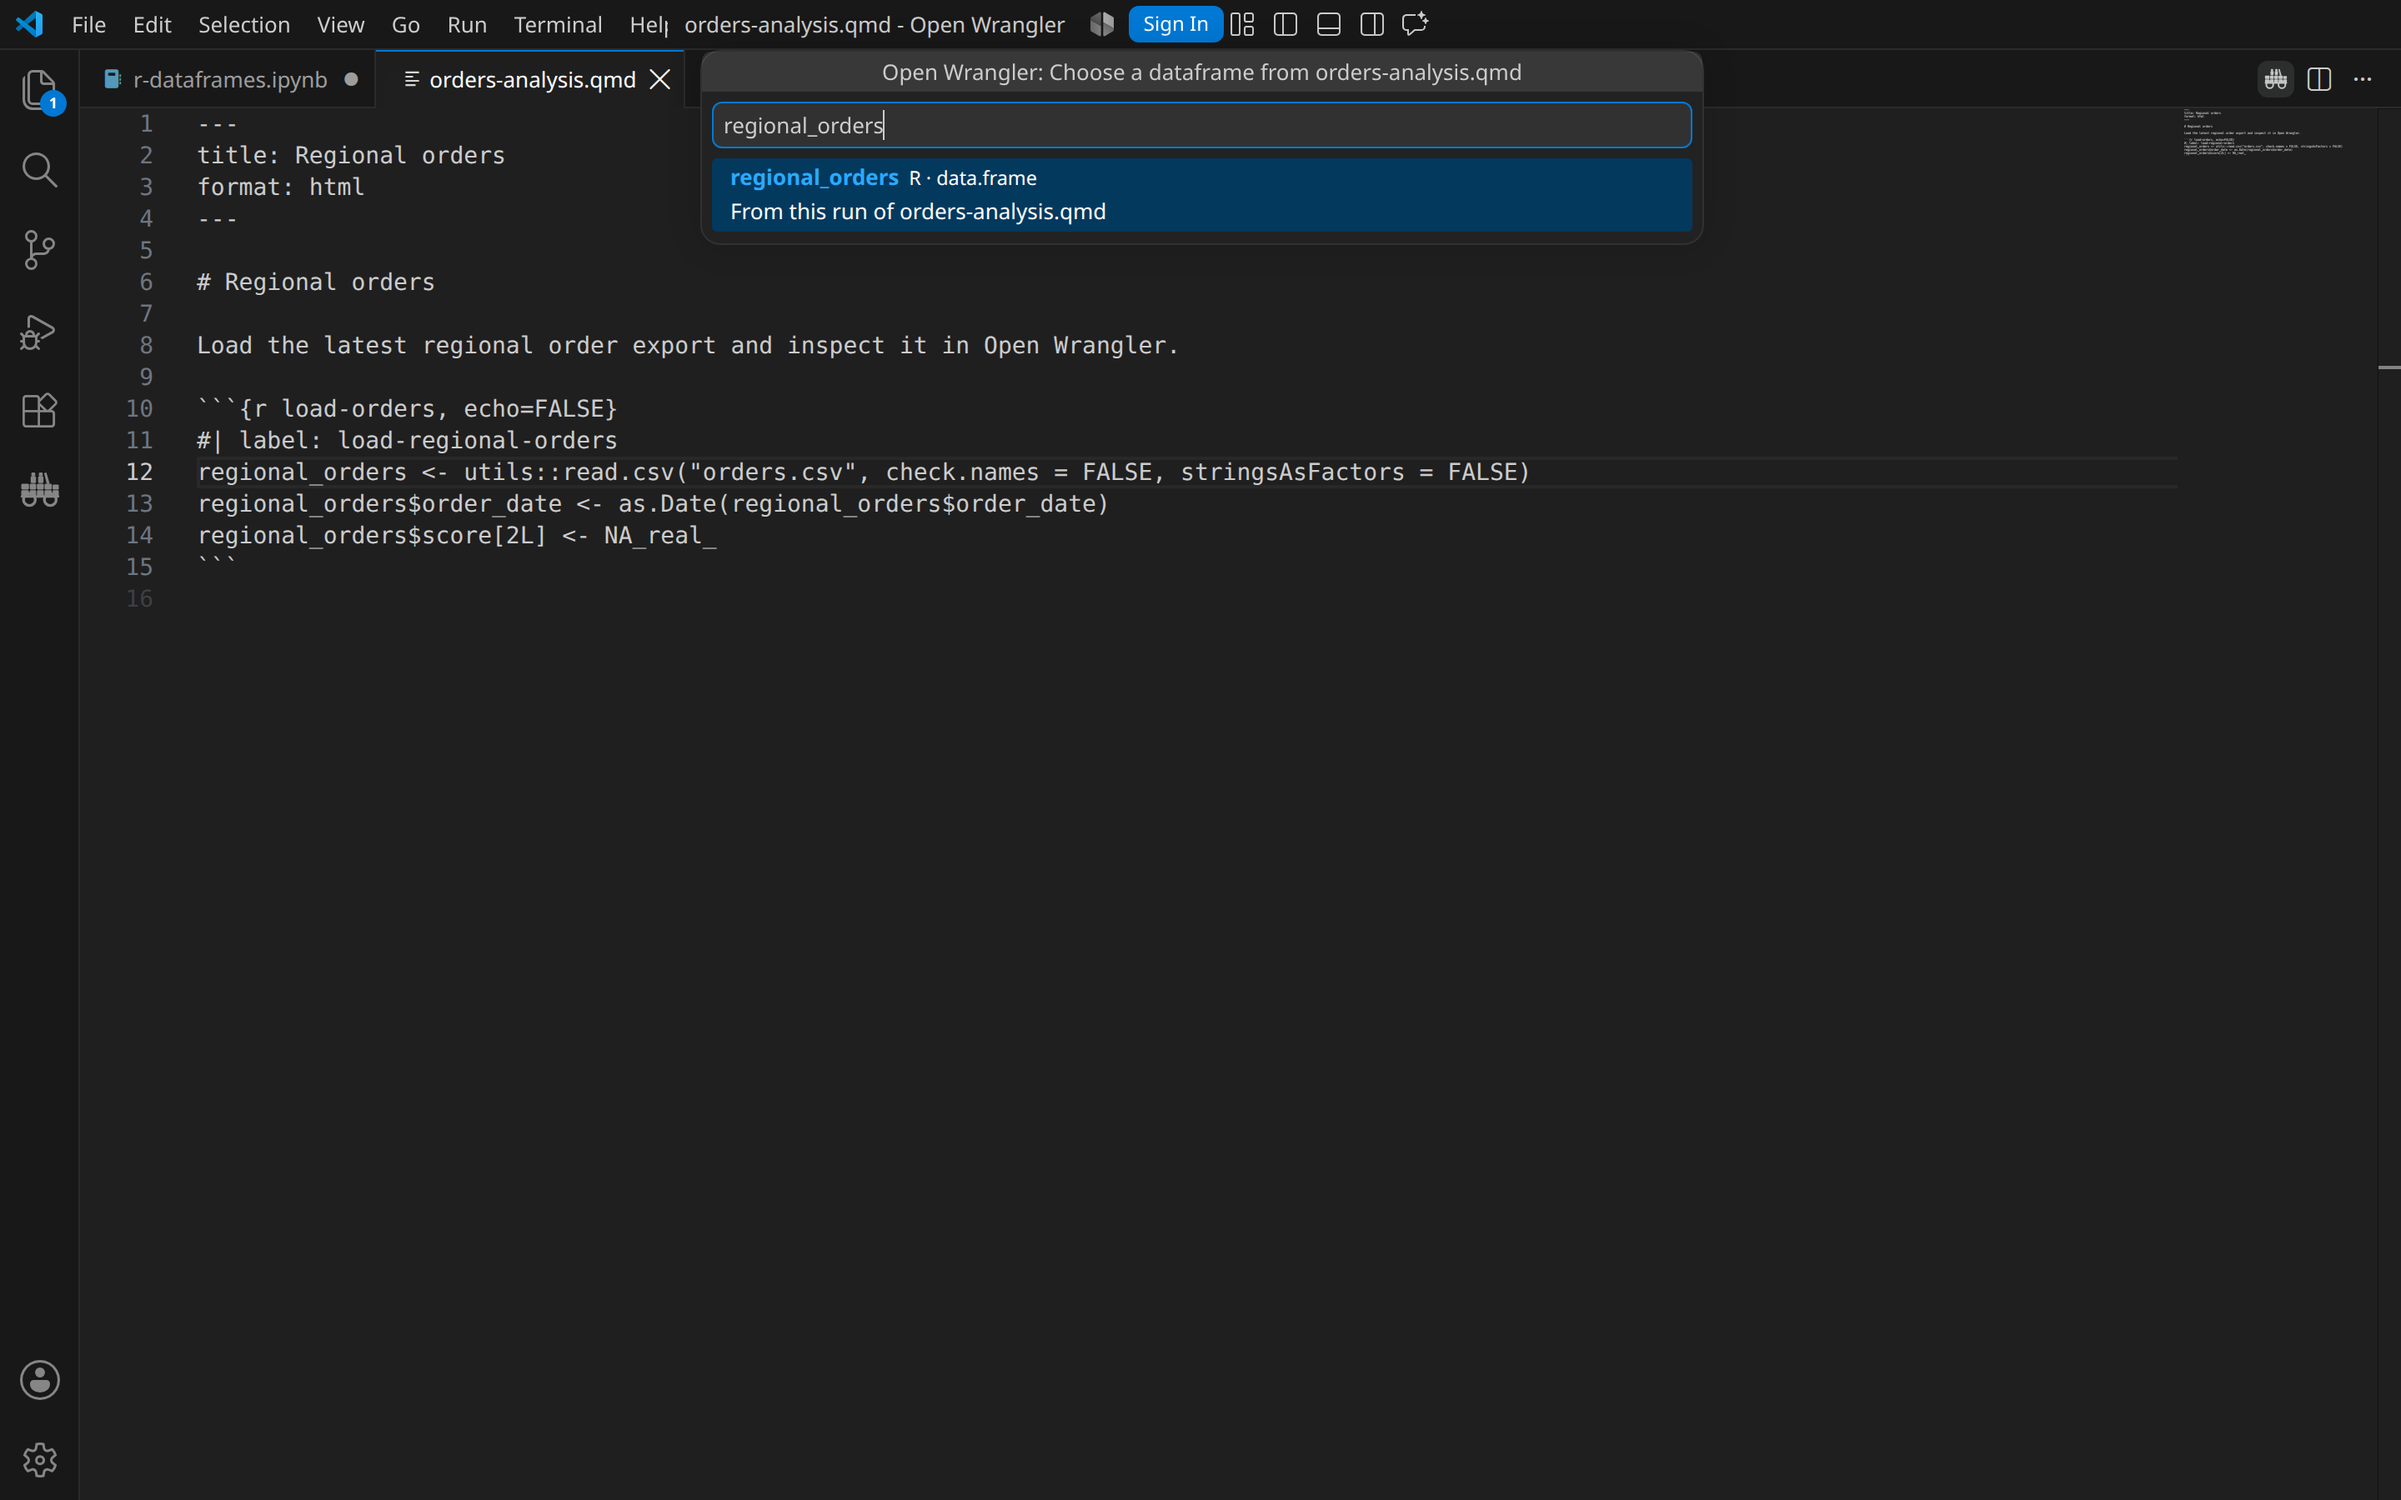
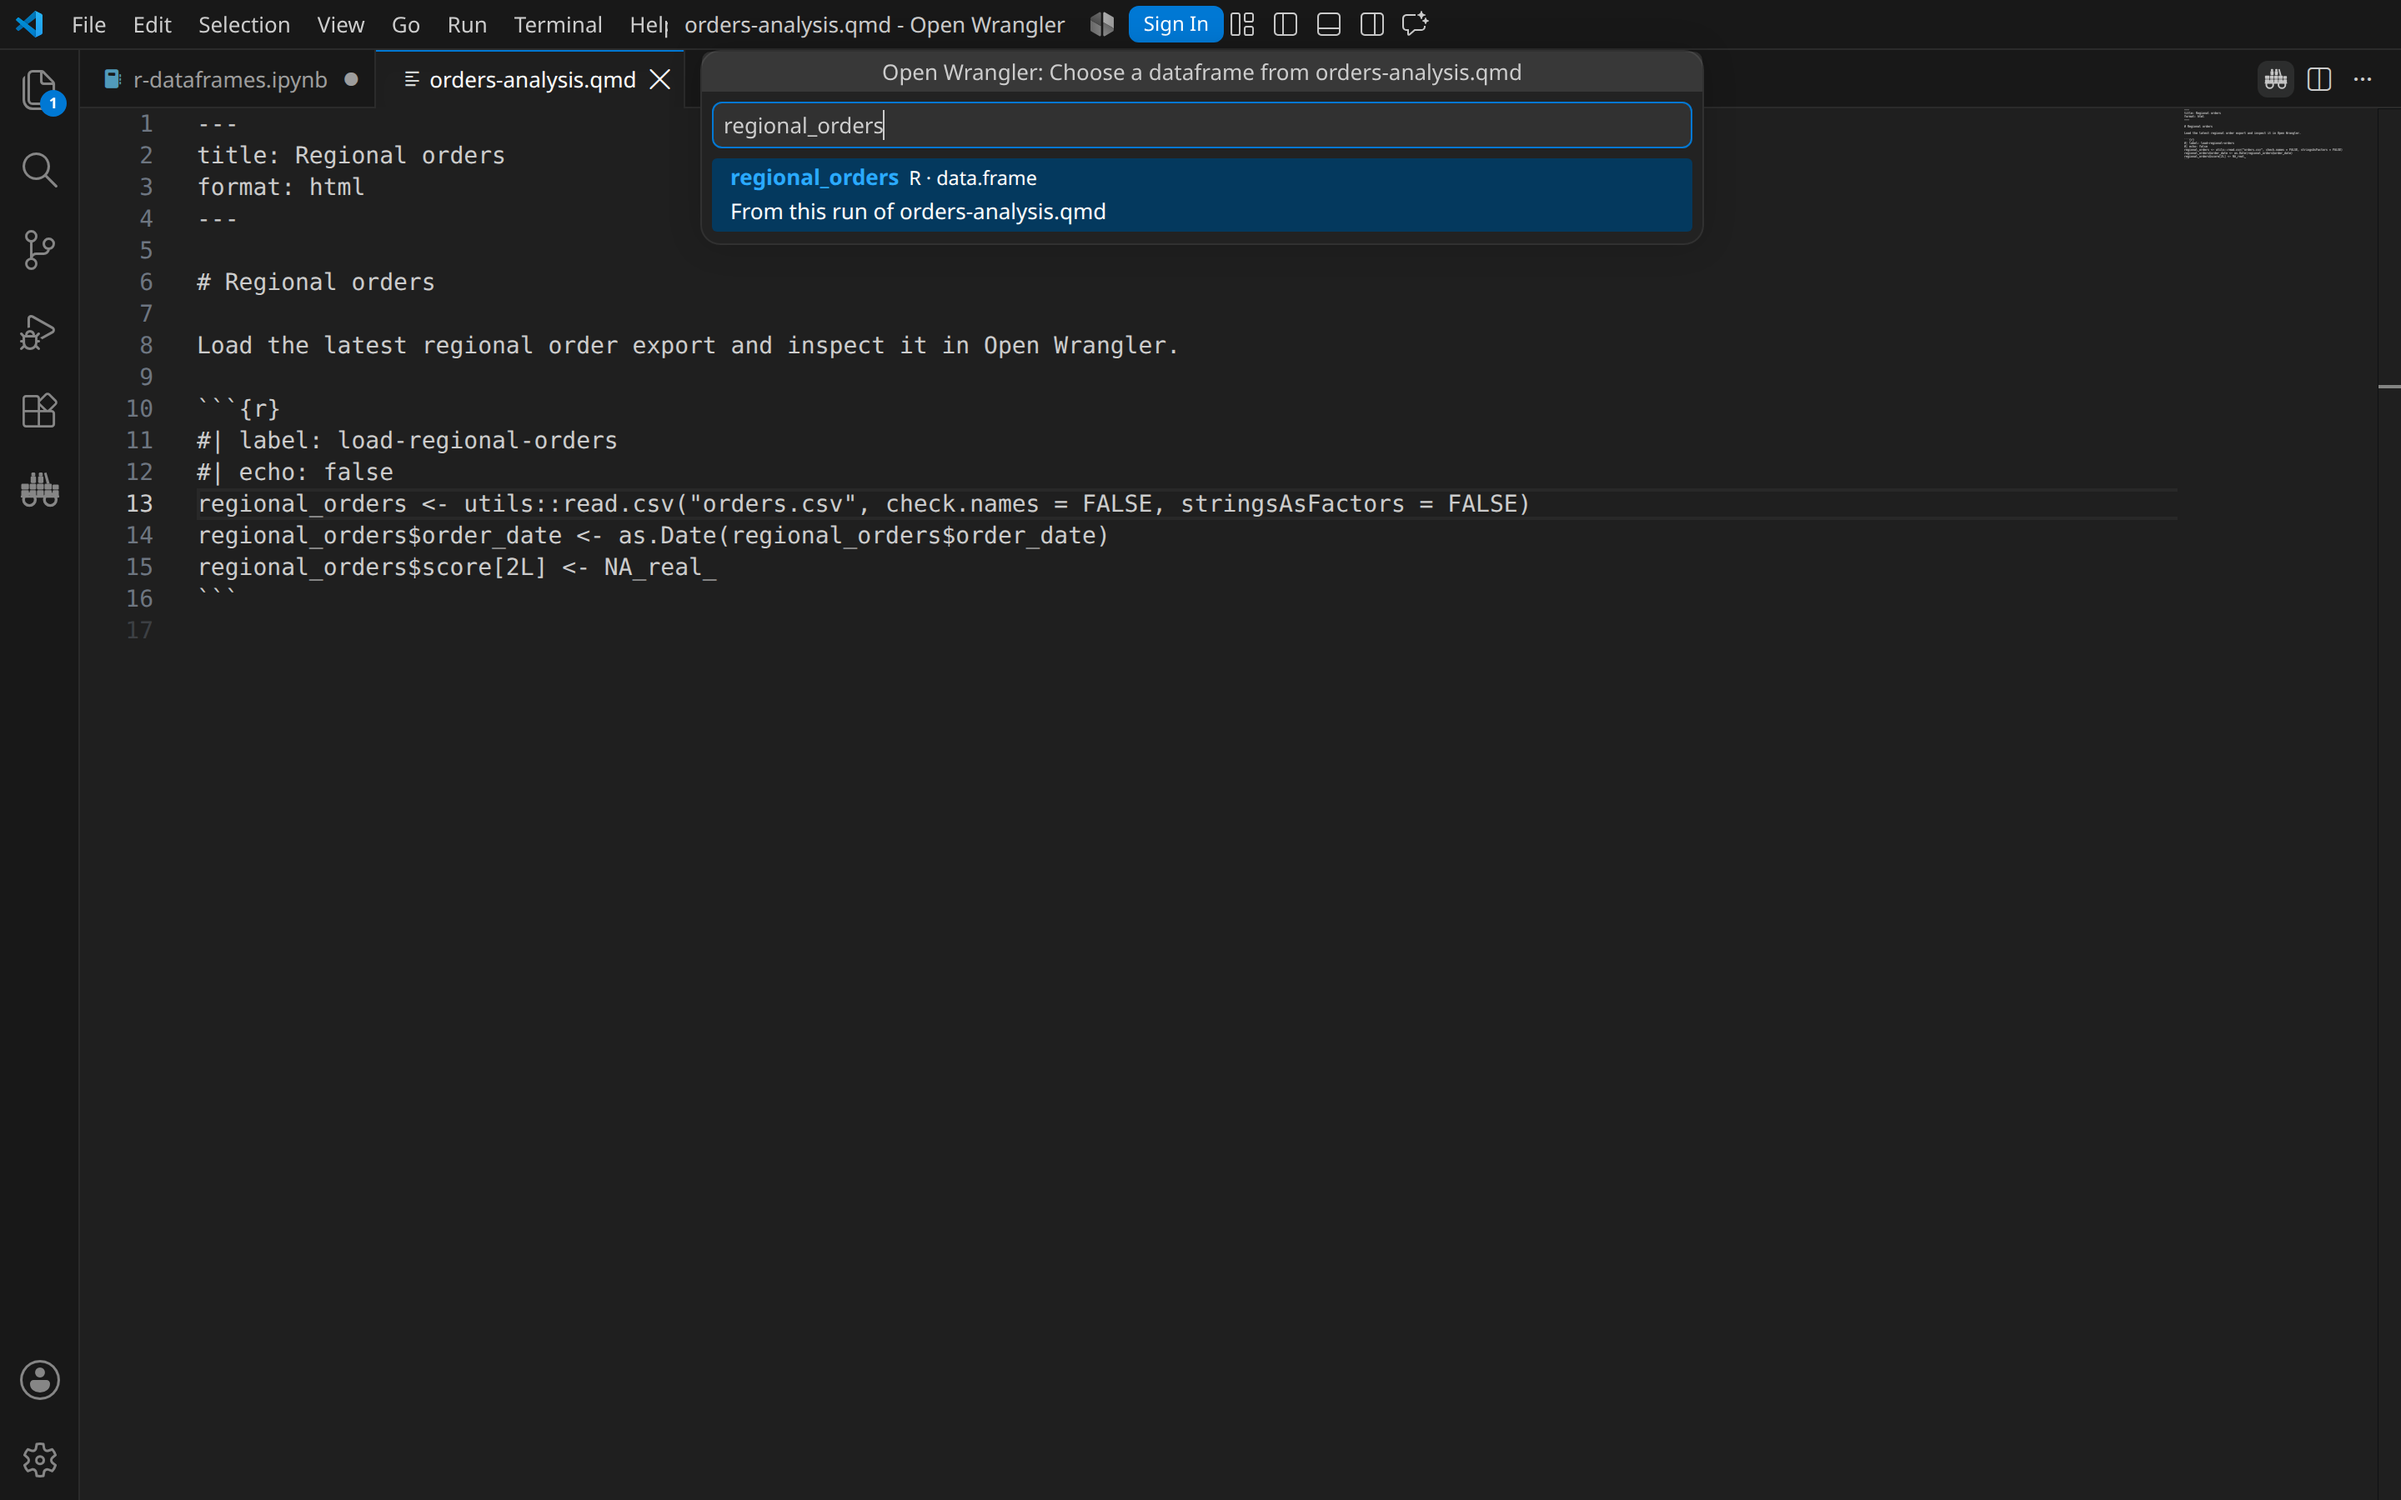
Use idiomatic Quarto options in the gallery

Changed region(s): [[0.0938, 0.3111, 0.6562, 0.4044], [0.125, 0.2489, 0.25, 0.28], [0.9062, 0.0933, 0.9375, 0.1244]]

diff --git a/src/test/extensionHost/index.ts b/src/test/extensionHost/index.ts
@@ -1819,8 +1819,8 @@ function writeReleasedRLiterateDocumentFixture(
   const processIdPath = path.join(fixtureDirectory, "open-wrangler-r.pid");
   const variableName = kind === "quarto" ? "regional_orders" : "literate_orders";
   const loadCell = [
-    "```{r load-orders, echo=FALSE}",
-    ...(kind === "quarto" ? ["#| label: load-regional-orders"] : []),
+    kind === "quarto" ? "```{r}" : "```{r load-orders, echo=FALSE}",
+    ...(kind === "quarto" ? ["#| label: load-regional-orders", "#| echo: false"] : []),
     `${variableName} <- utils::read.csv("orders.csv", check.names = FALSE, stringsAsFactors = FALSE)`,
     `${variableName}$order_date <- as.Date(${variableName}$order_date)`,
     `${variableName}$score[2L] <- NA_real_`,
@@ -2001,6 +2001,7 @@ async function exerciseReleasedRJupyterExtension(
     phase === "jupyter-r" && process.platform === "linux"
       ? process.env.OPEN_WRANGLER_CAPTURE_EDITOR_SCREENSHOTS
       : undefined;
+  let ranRDocumentJourney = false;
   writeReleasedRNotebook(notebookPath, phase);
   const configuration = vscode.workspace.getConfiguration("openWrangler");
   const originalProvider = configuration.inspect<"ask" | "openWrangler" | "dataWrangler" | "disabled">(
@@ -2142,6 +2143,12 @@ async function exerciseReleasedRJupyterExtension(
       await assertReleasedRRuntimeBinding(notebook, true, `${phase}:media-source-after-capture`);
       await disposePackagedSessionPanel(testing, mediaSession.sessionId, "the representative R orders session");
 
+      if (supportsRDocumentExecution(process.platform)) {
+        await exerciseReleasedRDocumentJourney(testing, workbench, directory, screenshotOutput);
+        ranRDocumentJourney = true;
+        assert.equal(testing.diagnostics().sessionCount, 0, "The R document journey must release its processes.");
+      }
+
       await showExactReleasedNotebook(notebook);
       await invokeReleasedNotebookToolbarVariable(workbench, notebook, "orders_frame");
       base = await waitForReleasedVariableSession(
@@ -2277,7 +2284,7 @@ async function exerciseReleasedRJupyterExtension(
       await disposePackagedSessionPanel(testing, session.sessionId, `the collapse::${expected.factory}() session`);
     }
 
-    if (phase === "jupyter-r" && supportsRDocumentExecution(process.platform)) {
+    if (phase === "jupyter-r" && supportsRDocumentExecution(process.platform) && !ranRDocumentJourney) {
       await exerciseReleasedRDocumentJourney(testing, workbench, directory, screenshotOutput);
       assert.equal(testing.diagnostics().sessionCount, 0, "The plain R journey must release its private processes.");
     }
@@ -3467,8 +3474,8 @@ async function exerciseReleasedRDocumentGrid(testing: TestApi, workbench: Page, 
     "the plain R group filter"
   );
   await drawer.getByRole("button", { name: "Close panel" }).click();
-  await applyReleasedRQuickSort(app, testing, "group", "ascending", ["group"]);
-  await applyReleasedRQuickSort(app, testing, "score", "descending", ["score", "group"]);
+  await applyReleasedRQuickSort(workbench, testing, "group", "ascending", ["group"]);
+  await applyReleasedRQuickSort(workbench, testing, "score", "descending", ["score", "group"]);
   const active = testing.activeSession();
   assert.ok(active, "The sorted plain R session must remain active.");
   const first = await testing.request({
@@ -3816,8 +3823,8 @@ async function exerciseReleasedRGridJourney(testing: TestApi, workbench: Page, s
     .filter({ hasText: "value-20-1205" })
     .waitFor({ state: "visible", timeout: 10_000 });
 
-  await applyReleasedRQuickSort(app, testing, "group", "ascending", ["group"]);
-  await applyReleasedRQuickSort(app, testing, "score", "descending", ["score", "group"]);
+  await applyReleasedRQuickSort(workbench, testing, "group", "ascending", ["group"]);
+  await applyReleasedRQuickSort(workbench, testing, "score", "descending", ["score", "group"]);
   const scoreFirst = await testing.request({
     kind: "getPage",
     ...GRID_COLUMN_WINDOW,
@@ -4000,8 +4007,8 @@ async function exerciseReleasedRPersistentRowsJourney(
     "the R group viewing filter"
   );
   await drawer.getByRole("button", { name: "Close panel" }).click();
-  await applyReleasedRQuickSort(app, testing, "group", "ascending", ["group"]);
-  await applyReleasedRQuickSort(app, testing, "score", "descending", ["score", "group"]);
+  await applyReleasedRQuickSort(workbench, testing, "group", "ascending", ["group"]);
+  await applyReleasedRQuickSort(workbench, testing, "score", "descending", ["score", "group"]);
   active = testing.activeSession();
   assert.ok(active, "The R persistent-filter journey requires its active view.");
   assert.equal(active.metadata.shape.rows, 1_205);
@@ -4922,8 +4929,8 @@ async function exerciseReleasedREditingJourney(
     "the R notebook export viewing filter"
   );
   await exportDrawer.getByRole("button", { name: "Close panel" }).click();
-  await applyReleasedRQuickSort(app, testing, "group", "ascending", ["group"]);
-  await applyReleasedRQuickSort(app, testing, "score", "descending", ["score", "group"]);
+  await applyReleasedRQuickSort(workbench, testing, "group", "ascending", ["group"]);
+  await applyReleasedRQuickSort(workbench, testing, "score", "descending", ["score", "group"]);
   const exportView = testing.activeSession();
   assert.ok(exportView, "The filtered R notebook export requires its exact active session.");
   assert.equal(exportView.sessionId, sessionId);
@@ -7392,8 +7399,8 @@ async function captureReleasedRJupyterWorkbench(
       "the R screenshot renderer to complete its host handshake"
     );
     const revenue = columnReference(active.metadata, "revenue");
-    await applyReleasedRQuickSort(readyApp, testing, "revenue", "descending", ["revenue"]);
-    await applyReleasedRQuickSort(readyApp, testing, "priority", "ascending", ["priority", "revenue"]);
+    await applyReleasedRQuickSort(workbench, testing, "revenue", "descending", ["revenue"]);
+    await applyReleasedRQuickSort(workbench, testing, "priority", "ascending", ["priority", "revenue"]);
 
     let target = await waitForOpenWranglerGridTarget(workbench, testing, sessionId);
     let app = await exactSessionApp(target.frame, sessionId);
@@ -7558,15 +7565,22 @@ async function assertReleasedProfileStat(panel: Locator, label: string, expected
 }
 
 async function applyReleasedRQuickSort(
-  app: Locator,
+  workbench: Page,
   testing: TestApi,
   column: string,
   direction: "ascending" | "descending",
   expectedPriority: readonly string[]
 ): Promise<void> {
-  const columnSearch = app.getByRole("combobox", { name: "Column", exact: true });
+  const sessionId = testing.activeSession()?.sessionId;
+  assert.ok(sessionId, "The R quick sort requires one active session.");
+  const columnId = testing.activeSession()?.metadata.schema.find((candidate) => candidate.name === column)?.id;
+  assert.ok(columnId, `The R quick sort requires the ${column} column.`);
+  let target = await waitForOpenWranglerGridTarget(workbench, testing, sessionId);
+  let currentApp = await exactSessionApp(target.frame, sessionId);
+  assert.ok(currentApp, `The R ${column} quick sort requires its exact renderer.`);
+  const columnSearch = currentApp.getByRole("combobox", { name: "Column", exact: true });
   await columnSearch.fill(column);
-  await app
+  await currentApp
     .getByRole("option", { name: new RegExp(`^${column},`, "u") })
     .first()
     .waitFor({
@@ -7574,11 +7588,17 @@ async function applyReleasedRQuickSort(
       timeout: 10_000
     });
   await columnSearch.press("Enter");
-  const header = app.locator(`th[data-column=${JSON.stringify(column)}]`).first();
-  const menu = header.locator("details.columnMenu").first();
-  await menu.getByLabel(`Column actions for ${column}`).click();
-  await menu.getByRole("button", { name: `Sort ${direction}`, exact: true }).click();
-  assert.equal(await menu.evaluate((element) => element.hasAttribute("open")), false);
+  await waitFor(
+    () =>
+      testing.activeSession()?.sessionId === sessionId &&
+      testing.activeSession()?.viewState.selectedColumnId === columnId,
+    10_000,
+    `selecting the R ${column} column before sorting`
+  );
+  const menu = await waitForReleasedRColumnMenu(workbench, sessionId, column);
+  await menu.summary.click();
+  await menu.menu.getByRole("button", { name: `Sort ${direction}`, exact: true }).click();
+  assert.equal(await menu.menu.evaluate((element) => element.hasAttribute("open")), false);
   await waitFor(
     () =>
       testing
@@ -7587,6 +7607,61 @@ async function applyReleasedRQuickSort(
         .join(",") === expectedPriority.join(","),
     10_000,
     `${column} to join the native R compound sort`
+  );
+}
+
+interface ReleasedRColumnMenu {
+  menu: Locator;
+  summary: Locator;
+}
+
+async function waitForReleasedRColumnMenu(
+  workbench: Page,
+  sessionId: string,
+  column: string
+): Promise<ReleasedRColumnMenu> {
+  const browser = workbench.context().browser();
+  const trialTimeoutMs = 250;
+  const prepared = await acquirePreparedAcceptanceAction({
+    timeoutMs: WORKBENCH_OPERATION_TIMEOUT_MS,
+    intervalMs: 50,
+    acquire: async () => {
+      assertOpenWranglerWebviewLifecycle(workbench, browser);
+      for (const target of openWranglerWebviewTargets(workbench, browser, OPEN_WRANGLER_WEBVIEW_TARGET_LIMIT)) {
+        if (isRetiredRendererTarget(workbench, target.page, target.frame)) continue;
+        try {
+          const app = await exactSessionApp(target.frame, sessionId);
+          if (!app) continue;
+          const menu = app.locator(`th[data-column=${JSON.stringify(column)}] details.columnMenu`).first();
+          const summary = menu.getByLabel(`Column actions for ${column}`, { exact: true });
+          if ((await summary.count()) !== 1 || !(await summary.isVisible())) continue;
+          try {
+            await summary.click({ trial: true, timeout: trialTimeoutMs });
+          } catch (error) {
+            if (isReleasedRColumnMenuPreparationError(error)) continue;
+            throw error;
+          }
+          return { menu, summary };
+        } catch (error) {
+          ignoreRetiredRendererProbeFailure(workbench, browser, target.page, target.frame, error);
+        }
+      }
+      return undefined;
+    },
+    prepare: ({ summary }) => summary.click({ trial: true, timeout: trialTimeoutMs }),
+    dispose: async () => undefined,
+    isRetryablePreparationError: isReleasedRColumnMenuPreparationError,
+    wait: (durationMs) => workbench.waitForTimeout(durationMs)
+  });
+  assert.ok(prepared, `The R ${column} menu must become pointer-ready in the exact session renderer.`);
+  return prepared;
+}
+
+function isReleasedRColumnMenuPreparationError(error: unknown): boolean {
+  const message = error instanceof Error ? error.message : String(error);
+  return (
+    (error as { name?: unknown } | undefined)?.name === "TimeoutError" ||
+    /(?:element|node).*(?:detached|not attached|not connected)/iu.test(message)
   );
 }
 
